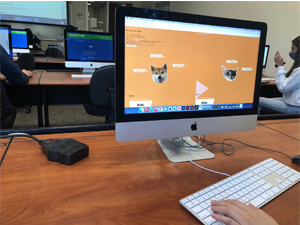
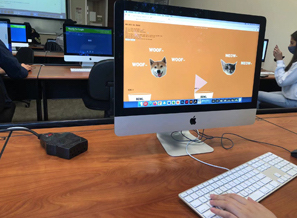
usertest

diff --git a/des157a/final/styles1.css b/des157a/final/styles1.css
@@ -119,26 +119,27 @@ p{
     grid-template-rows: 200px 1fr; */
     padding: 20px;
     margin-top:  50px;
-    border-radius: 20px;
-    background: wheat;
+    
+    background-color: rgba(255, 255, 255, 0.7)
     /* transition: 0.3s; */
 }
 #tester1{
     display: block;
     margin-left: 200px;
-    background-color:burlywood;
+    background-color: rgba(0, 0, 0, 0.7);
+
     
 }
 #tester2{
     display: block;
     margin-right: 200px;
-    background-color:burlywood;
+    background-color: rgba(0, 0, 0, 0.7);
     
 }
 #tester3{
     display: block;
     margin-left: 200px;
-    background-color:burlywood;
+    background-color: rgba(0, 0, 0, 0.7);
     
 }
 
@@ -174,7 +175,8 @@ footer{
 }
 a{
     text-decoration: none;
-    color: goldenrod;
+        color: white;
+
 }
 
 
